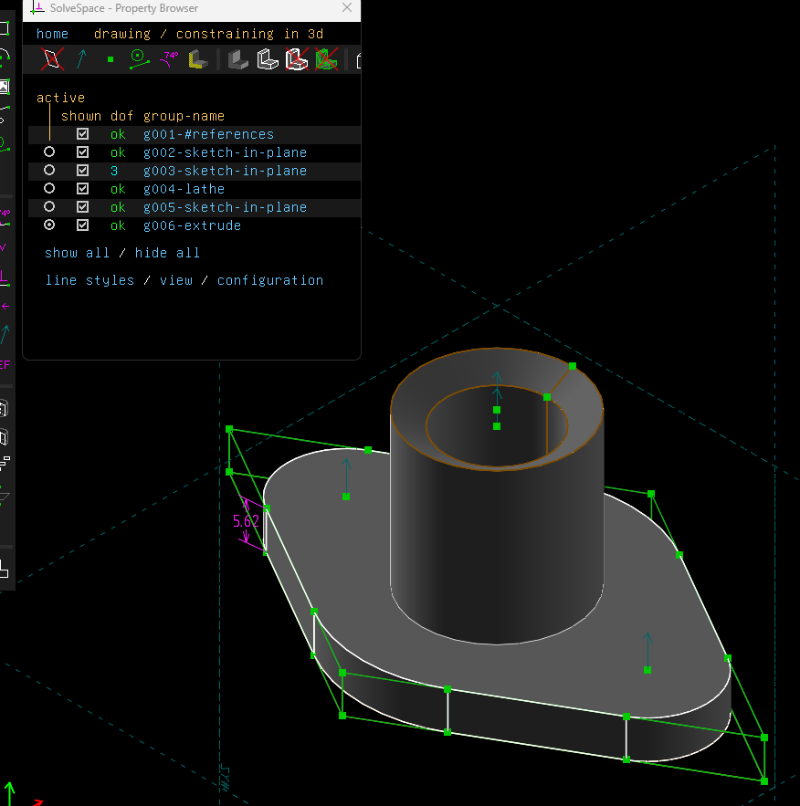
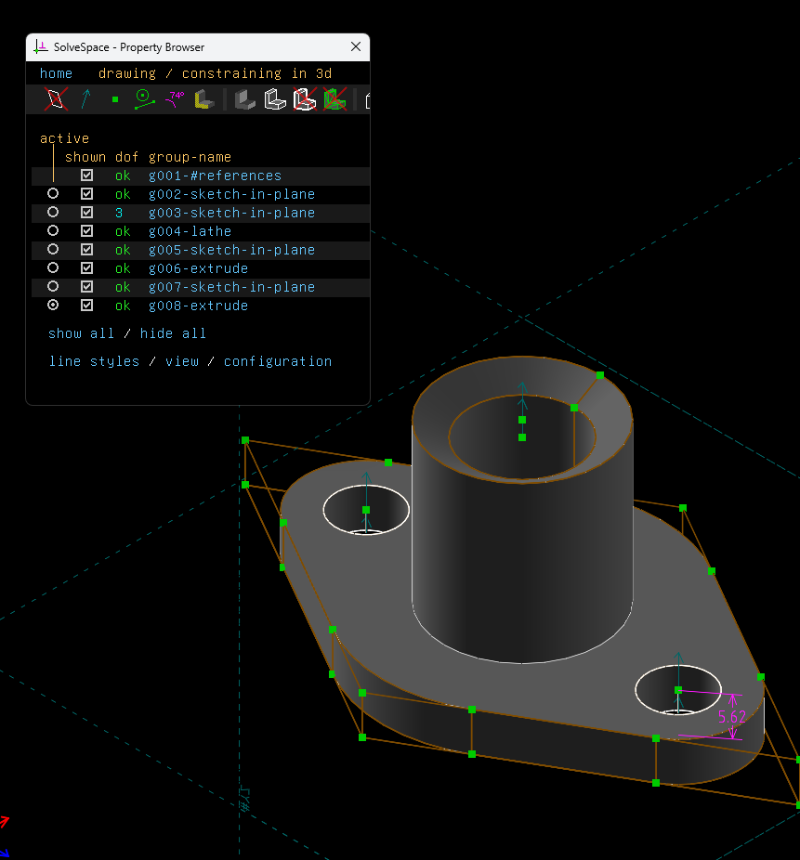
新增第5、6、9零件圖

diff --git a/content/tipuesearch_content.js b/content/tipuesearch_content.js
@@ -1,1 +1,1 @@
-var tipuesearch = {"pages": [{'title': 'About', 'text': '國立虎尾科技大學機械設計工程系 \n National Formosa University \n Department of Mechanical Design Engineering \n cad2024 電腦輔助設計與實習 \n 課程教材: \n Intro_to_Mechatronics.pdf  ( Source ) \n Programming with Python for Engineers \n NX Tutorial \n cd2023_pj3ag4_zmq_football_4.7.7z \n cd2024_2b_g6_steel_ball_platform_nxopen_copsim.7z \n Teams 線上教學: \n 以 "學號@nfu.edu.tw" 登入  https://login.microsoftonline.com/  Office 365 \n Teams 團隊代碼:  j19kw75 \n 個人倉儲:  https://github.com/mdecad2024/hw-41223206 \n 個人網站:  https://mdecad2024.github.io/hw-41223206 \n 其他資訊 \n', 'tags': '', 'url': 'About.html'}, {'title': 'Attendance', 'text': '出席 (10%) - 自行舉證評分 \n 自行利用 Github commits 提交記錄評分. \n', 'tags': '', 'url': 'Attendance.html'}, {'title': 'HW1', 'text': "Homework 1 (10%): \n 利用 Solvespace 與 NX2312 建立  Parts  頁面中的零件 \n 其他 零件模擬練習 \n \n 利用 Solvespace 繪製列表中零件的操作過程與說明影片如下: \n \n # Run static server\nimport static\nfrom gevent.pywsgi import WSGIServer\n\nhttp_server = WSGIServer(('0.0.0.0', 8081), static.app)\nhttp_server.serve_forever() \n 影片標題: 國立虎尾科技大學機械設計工程系電腦輔助設計與實習- 作業一之一 \n 所完成的零件檔案下載 \n 影片標題: 國立虎尾科技大學機械設計工程系電腦輔助設計與實習- 作業一之二 \n 所完成的零件檔案下載 \n ...... \n 利用 NX2312 繪製列表中零件的操作過程與說明影片如下: \n 影片標題: 國立虎尾科技大學機械設計工程系電腦輔助設計與實習- 作業一之三 \n 所完成的零件檔案下載 \n 影片標題: 國立虎尾科技大學機械設計工程系電腦輔助設計與實習- 作業一之四 \n 所完成的零件檔案下載 \n ...... \n HW1 執行心得: \n ...... \n HW1 自評分數: \n 完成上述流程後, 請將 HW1 自評分數輸入 cad2024 自評表單中. \n", 'tags': '', 'url': 'HW1.html'}, {'title': 'HW1_Exam', 'text': '', 'tags': '', 'url': 'HW1_Exam.html'}, {'title': 'w7', 'text': '/downloads/影片1.mp4 \n 從 零件模擬練習 中選出零件, 隨堂進行考試. \n 零件考試題目以 Solvespace 繪圖操作過程影片如下: \n 請將操作影片嵌入 ...... \n 所完成的零件檔案下載 \n 零件考試題目以 NX2312 繪圖操作過程影片如下: \n 請將操作影片嵌入 ...... \n 所完成的零件檔案下載 \n', 'tags': '', 'url': 'w7.html'}, {'title': 'HW2', 'text': 'Homework 2 (10%): \n 利用 Solvespace 與 NX 建立  Balance on Wheels  組立件 \n \n 利用 Solvespace 繪製  Balance on Wheels  組立件的操作過程與說明影片如下: \n \n \n 影片標題: 國立虎尾科技大學機械設計工程系電腦輔助設計與實習- 作業二之一 \n 所完成的零組件檔案下載 \n \n \n STL: https://mdecad2024.github.io/hw-41223206/cmsimde/static/viewstl.html?src=https://s104.cycu.org/~41223206/3.untitled.stl \n \n \n \n \n \n \n \n 利用 NX2312 繪製  Balance on Wheels  組立件的操作過程與說明影片如下: \n 影片標題: 國立虎尾科技大學機械設計工程系電腦輔助設計與實習- 作業二之二 \n 所完成的零件檔案下載 \n HW2 執行心得: \n ...... \n HW2 自評分數: \n 完成上述流程後, 請將 HW2 自評分數輸入 cad2024 自評表單中. \n', 'tags': '', 'url': 'HW2.html'}, {'title': 'HW2_Exam', 'text': '與 HW2 內容相近的組立件題目, 隨堂進行考試. \n 零件與組立件考試題目以 Solvespace 繪圖操作過程影片如下: \n 請將操作影片嵌入 ...... \n 所完成的零件與組立件檔案下載 \n 零件與組立件考試題目以 NX 繪圖操作過程影片如下: \n 請將操作影片嵌入 ...... \n 所完成的零件與組立件檔案下載 \n', 'tags': '', 'url': 'HW2_Exam.html'}, {'title': 'HW3', 'text': 'Homework 3 (20%): \n 建立  Balance on Wheels  控制系統設計模擬場景 \n https://github.com/mdecycu/Balance_On_Wheels \n \n \n Balance_on_wheels_nx2312.7z \n Balance_on_Wheel_scene.7z \n', 'tags': '', 'url': 'HW3.html'}, {'title': 'HW3_Exam', 'text': '與 HW3 內容相近的模擬場景題目, 隨堂進行考試. \n 建立模擬場景操作過程影片如下: \n 請將操作影片嵌入 ...... \n 所完成的模擬場景與控制程式檔案下載 \n \n 利用 CoppeliaSim 建立  Balance on Wheels  控制系統設計模擬場景的操作過程與說明影片如下: \n 影片標題: 國立虎尾科技大學機械設計工程系電腦輔助設計與實習- 作業三 \n 請將操作影片嵌入 ...... \n 所完成的場景與控制程式檔案下載 \n HW3 執行心得: \n ...... \n HW3 自評分數: \n 完成上述流程後, 請將 HW3 自評分數輸入 cad2024 自評表單中. \n', 'tags': '', 'url': 'HW3_Exam.html'}, {'title': 'HW4', 'text': 'Homework 4 (20%): \n 建立  Dingo 機器狗 控制系統設計模擬場景 \n https://github.com/mdecycu/DingoQuadruped \n DINGO_QUADRUPED_CAD.7z \n \n \n 利用 CoppeliaSim 建立  Dingo 機器狗 控制系統設計模擬場景的操作過程與說明影片如下: \n 影片標題: 國立虎尾科技大學機械設計工程系電腦輔助設計與實習- 作業四 \n 所完成的場景與控制程式檔案下載 \n HW4 執行心得: \n .... \n HW4 自評分數: \n 完成上述流程後, 請將 HW4 自評分數輸入 cad2024 自評表單中. \n', 'tags': '', 'url': 'HW4.html'}, {'title': 'HW4_Exam', 'text': '與 HW4 內容相近的模擬場景題目, 隨堂進行考試. \n 建立模擬場景操作過程影片如下: \n 請將操作影片嵌入 ...... \n 所完成的模擬場景與控制程式檔案下載 \n', 'tags': '', 'url': 'HW4_Exam.html'}, {'title': 'Final Report', 'text': '期末口頭與書面專題報告 (30%) \n 期末口頭專題報告影片: \n ...... \n 期末書面專題報告檔案 (pdf): \n ...... \n 電腦輔助設計與實習課程總結心得: \n ...... \n 期末報告自評成績: \n 完成上述流程後, 請將 Final Report 自評分數輸入 cad2024 自評表單中.', 'tags': '', 'url': 'Final Report.html'}]};
+var tipuesearch = {"pages": [{'title': 'About', 'text': '國立虎尾科技大學機械設計工程系 \n National Formosa University \n Department of Mechanical Design Engineering \n cad2024 電腦輔助設計與實習 \n 課程教材: \n Intro_to_Mechatronics.pdf  ( Source ) \n Programming with Python for Engineers \n NX Tutorial \n cd2023_pj3ag4_zmq_football_4.7.7z \n cd2024_2b_g6_steel_ball_platform_nxopen_copsim.7z \n Teams 線上教學: \n 以 "學號@nfu.edu.tw" 登入  https://login.microsoftonline.com/  Office 365 \n Teams 團隊代碼:  j19kw75 \n 個人倉儲:  https://github.com/mdecad2024/hw-41223206 \n 個人網站:  https://mdecad2024.github.io/hw-41223206 \n 其他資訊 \n', 'tags': '', 'url': 'About.html'}, {'title': 'Attendance', 'text': '出席 (10%) - 自行舉證評分 \n 自行利用 Github commits 提交記錄評分. \n', 'tags': '', 'url': 'Attendance.html'}, {'title': 'HW1', 'text': "Homework 1 (10%): \n 利用 Solvespace 與 NX2312 建立  Parts  頁面中的零件 \n 其他 零件模擬練習 \n \n 利用 Solvespace 繪製列表中零件的操作過程與說明影片如下: \n \n # Run static server\nimport static\nfrom gevent.pywsgi import WSGIServer\n\nhttp_server = WSGIServer(('0.0.0.0', 8081), static.app)\nhttp_server.serve_forever() \n 影片標題: 國立虎尾科技大學機械設計工程系電腦輔助設計與實習- 作業一之一 \n 所完成的零件檔案下載 \n 影片標題: 國立虎尾科技大學機械設計工程系電腦輔助設計與實習- 作業一之二 \n 所完成的零件檔案下載 \n ...... \n 利用 NX2312 繪製列表中零件的操作過程與說明影片如下: \n 影片標題: 國立虎尾科技大學機械設計工程系電腦輔助設計與實習- 作業一之三 \n 所完成的零件檔案下載 \n 影片標題: 國立虎尾科技大學機械設計工程系電腦輔助設計與實習- 作業一之四 \n 所完成的零件檔案下載 \n ...... \n HW1 執行心得: \n ...... \n HW1 自評分數: \n 完成上述流程後, 請將 HW1 自評分數輸入 cad2024 自評表單中. \n", 'tags': '', 'url': 'HW1.html'}, {'title': 'HW1_Exam', 'text': '', 'tags': '', 'url': 'HW1_Exam.html'}, {'title': 'w7', 'text': '/downloads/影片1.mp4 \n 從 零件模擬練習 中選出零件, 隨堂進行考試. \n 零件考試題目以 Solvespace 繪圖操作過程影片如下: \n 請將操作影片嵌入 ...... \n 所完成的零件檔案下載 \n 零件考試題目以 NX2312 繪圖操作過程影片如下: \n 請將操作影片嵌入 ...... \n 所完成的零件檔案下載 \n', 'tags': '', 'url': 'w7.html'}, {'title': 'HW2', 'text': 'Homework 2 (10%): \n 利用 Solvespace 與 NX 建立  Balance on Wheels  組立件 \n \n 利用 Solvespace 繪製  Balance on Wheels  組立件的操作過程與說明影片如下: \n \n \n 影片標題: 國立虎尾科技大學機械設計工程系電腦輔助設計與實習- 作業二之一 \n 所完成的零組件檔案下載 \n \n \n STL: https://mdecad2024.github.io/hw-41223206/cmsimde/static/viewstl.html?src=https://s104.cycu.org/~41223206/3.untitled.stl \n \n \n \n \n \n \n \n \n \n \n 利用 NX2312 繪製  Balance on Wheels  組立件的操作過程與說明影片如下: \n 影片標題: 國立虎尾科技大學機械設計工程系電腦輔助設計與實習- 作業二之二 \n 所完成的零件檔案下載 \n HW2 執行心得: \n ...... \n HW2 自評分數: \n 完成上述流程後, 請將 HW2 自評分數輸入 cad2024 自評表單中.', 'tags': '', 'url': 'HW2.html'}, {'title': 'HW2_Exam', 'text': '與 HW2 內容相近的組立件題目, 隨堂進行考試. \n 零件與組立件考試題目以 Solvespace 繪圖操作過程影片如下: \n 請將操作影片嵌入 ...... \n 所完成的零件與組立件檔案下載 \n 零件與組立件考試題目以 NX 繪圖操作過程影片如下: \n 請將操作影片嵌入 ...... \n 所完成的零件與組立件檔案下載 \n', 'tags': '', 'url': 'HW2_Exam.html'}, {'title': 'HW3', 'text': 'Homework 3 (20%): \n 建立  Balance on Wheels  控制系統設計模擬場景 \n https://github.com/mdecycu/Balance_On_Wheels \n \n \n Balance_on_wheels_nx2312.7z \n Balance_on_Wheel_scene.7z \n', 'tags': '', 'url': 'HW3.html'}, {'title': 'HW3_Exam', 'text': '與 HW3 內容相近的模擬場景題目, 隨堂進行考試. \n 建立模擬場景操作過程影片如下: \n 請將操作影片嵌入 ...... \n 所完成的模擬場景與控制程式檔案下載 \n \n 利用 CoppeliaSim 建立  Balance on Wheels  控制系統設計模擬場景的操作過程與說明影片如下: \n 影片標題: 國立虎尾科技大學機械設計工程系電腦輔助設計與實習- 作業三 \n 請將操作影片嵌入 ...... \n 所完成的場景與控制程式檔案下載 \n HW3 執行心得: \n ...... \n HW3 自評分數: \n 完成上述流程後, 請將 HW3 自評分數輸入 cad2024 自評表單中. \n', 'tags': '', 'url': 'HW3_Exam.html'}, {'title': 'HW4', 'text': 'Homework 4 (20%): \n 建立  Dingo 機器狗 控制系統設計模擬場景 \n https://github.com/mdecycu/DingoQuadruped \n DINGO_QUADRUPED_CAD.7z \n \n \n 利用 CoppeliaSim 建立  Dingo 機器狗 控制系統設計模擬場景的操作過程與說明影片如下: \n 影片標題: 國立虎尾科技大學機械設計工程系電腦輔助設計與實習- 作業四 \n 所完成的場景與控制程式檔案下載 \n HW4 執行心得: \n .... \n HW4 自評分數: \n 完成上述流程後, 請將 HW4 自評分數輸入 cad2024 自評表單中. \n', 'tags': '', 'url': 'HW4.html'}, {'title': 'HW4_Exam', 'text': '與 HW4 內容相近的模擬場景題目, 隨堂進行考試. \n 建立模擬場景操作過程影片如下: \n 請將操作影片嵌入 ...... \n 所完成的模擬場景與控制程式檔案下載 \n', 'tags': '', 'url': 'HW4_Exam.html'}, {'title': 'Final Report', 'text': '期末口頭與書面專題報告 (30%) \n 期末口頭專題報告影片: \n ...... \n 期末書面專題報告檔案 (pdf): \n ...... \n 電腦輔助設計與實習課程總結心得: \n ...... \n 期末報告自評成績: \n 完成上述流程後, 請將 Final Report 自評分數輸入 cad2024 自評表單中.', 'tags': '', 'url': 'Final Report.html'}]};

diff --git a/content/HW2.html b/content/HW2.html
@@ -154,10 +154,13 @@ img.add_border {
 <p style="padding-left: 30px;"><img alt="" height="319" src="./../images/3.png" width="400"/></p>
 <p style="padding-left: 30px;">STL:<a href="https://mdecad2024.github.io/hw-41223206/cmsimde/static/viewstl.html?src=https://s104.cycu.org/~41223206/3.untitled.stl">https://mdecad2024.github.io/hw-41223206/cmsimde/static/viewstl.html?src=https://s104.cycu.org/~41223206/3.untitled.stl</a></p>
 <p style="padding-left: 30px;"><img alt="" height="421" src="./../images/4.png" width="400"/></p>
+<p style="padding-left: 30px;"><img alt="" height="427" src="./../images/5.png" width="400"/></p>
+<p style="padding-left: 30px;"><img alt="" height="425" src="./../images/6.png" width="400"/></p>
 <p style="padding-left: 30px;"><img alt="" height="411" src="./../images/7.png" width="400"/></p>
 <p style="padding-left: 30px;"><img alt="" height="395" src="./../images/8.png" width="400"/></p>
-<p style="padding-left: 30px;"><img alt="" height="403" src="./../images/9.png" width="400"/></p>
+<p style="padding-left: 30px;"></p>
 <p style="padding-left: 30px;"><img alt="" height="420" src="./../images/10.png" width="400"/></p>
+<p style="padding-left: 30px;"><img alt="" height="430" src="./../images/9.png" width="400"/></p>
 <p style="padding-left: 30px;"><img alt="" height="445" src="./../images/11.png" width="400"/></p>
 <p style="padding-left: 30px;"><img alt="" height="417" src="./../images/12.png" width="400"/></p>
 <p>利用 NX2312 繪製 <a href="https://mde.tw/cad2024/content/BonW.html">Balance on Wheels</a> 組立件的操作過程與說明影片如下:</p>
@@ -166,8 +169,7 @@ img.add_border {
 <p>HW2 執行心得:</p>
 <p style="padding-left: 30px;">......</p>
 <p>HW2 自評分數:</p>
-<p style="padding-left: 30px;">完成上述流程後, 請將 HW2 自評分數輸入 cad2024 自評表單中.</p>
-<br />w7 << <a href='w7.html'>Previous</a> <a href='HW2_Exam.html'>Next</a> >> HW2_Exam</div>
+<p style="padding-left: 30px;">完成上述流程後, 請將 HW2 自評分數輸入 cad2024 自評表單中.</p><br />w7 << <a href='w7.html'>Previous</a> <a href='HW2_Exam.html'>Next</a> >> HW2_Exam</div>
         
     <!-- footer -->
       <div class="container">

diff --git a/config/content.htm b/config/content.htm
@@ -69,10 +69,13 @@ http_server.serve_forever()</pre>
 <p style="padding-left: 30px;"><img alt="" height="319" src="/images/3.png" width="400"/></p>
 <p style="padding-left: 30px;">STL:<a href="https://mdecad2024.github.io/hw-41223206/cmsimde/static/viewstl.html?src=https://s104.cycu.org/~41223206/3.untitled.stl">https://mdecad2024.github.io/hw-41223206/cmsimde/static/viewstl.html?src=https://s104.cycu.org/~41223206/3.untitled.stl</a></p>
 <p style="padding-left: 30px;"><img alt="" height="421" src="/images/4.png" width="400"/></p>
+<p style="padding-left: 30px;"><img alt="" height="427" src="/images/5.png" width="400"/></p>
+<p style="padding-left: 30px;"><img alt="" height="425" src="/images/6.png" width="400"/></p>
 <p style="padding-left: 30px;"><img alt="" height="411" src="/images/7.png" width="400"/></p>
 <p style="padding-left: 30px;"><img alt="" height="395" src="/images/8.png" width="400"/></p>
-<p style="padding-left: 30px;"><img alt="" height="403" src="/images/9.png" width="400"/></p>
+<p style="padding-left: 30px;"></p>
 <p style="padding-left: 30px;"><img alt="" height="420" src="/images/10.png" width="400"/></p>
+<p style="padding-left: 30px;"><img alt="" height="430" src="/images/9.png" width="400"/></p>
 <p style="padding-left: 30px;"><img alt="" height="445" src="/images/11.png" width="400"/></p>
 <p style="padding-left: 30px;"><img alt="" height="417" src="/images/12.png" width="400"/></p>
 <p>利用 NX2312 繪製 <a href="https://mde.tw/cad2024/content/BonW.html">Balance on Wheels</a> 組立件的操作過程與說明影片如下:</p>
@@ -81,8 +84,7 @@ http_server.serve_forever()</pre>
 <p>HW2 執行心得:</p>
 <p style="padding-left: 30px;">......</p>
 <p>HW2 自評分數:</p>
-<p style="padding-left: 30px;">完成上述流程後, 請將 HW2 自評分數輸入 cad2024 自評表單中.</p>
-<h2>HW2_Exam</h2>
+<p style="padding-left: 30px;">完成上述流程後, 請將 HW2 自評分數輸入 cad2024 自評表單中.</p><h2>HW2_Exam</h2>
 <p>與 HW2 內容相近的組立件題目, 隨堂進行考試.</p>
 <p>零件與組立件考試題目以 Solvespace 繪圖操作過程影片如下:</p>
 <p style="padding-left: 30px;">請將操作影片嵌入 ......</p>

diff --git a/config/content_backup.htm b/config/content_backup.htm
@@ -47,7 +47,7 @@ http_server.serve_forever()</pre>
 <p>HW1 自評分數:</p>
 <p style="padding-left: 30px;">完成上述流程後, 請將 HW1 自評分數輸入 cad2024 自評表單中.</p>
 <h2>HW1_Exam</h2>
-<p><strong>h7</strong></p>
+<h3>w7</h3>
 <p><strong><a href="/downloads/影片1.mp4">/downloads/影片1.mp4</a></strong></p>
 <p>從<a href="http://229.cycu.org/part_modeling_projects.pdf">零件模擬練習</a>中選出零件, 隨堂進行考試.</p>
 <p>零件考試題目以 Solvespace 繪圖操作過程影片如下:</p>
@@ -55,7 +55,8 @@ http_server.serve_forever()</pre>
 <p style="padding-left: 30px;">所完成的零件檔案下載</p>
 <p>零件考試題目以 NX2312 繪圖操作過程影片如下:</p>
 <p style="padding-left: 30px;">請將操作影片嵌入 ......</p>
-<p style="padding-left: 30px;">所完成的零件檔案下載</p><h1>HW2</h1>
+<p style="padding-left: 30px;">所完成的零件檔案下載</p>
+<h1>HW2</h1>
 <p>Homework 2 (10%):</p>
 <p style="padding-left: 30px;">利用 Solvespace 與 NX 建立 <a href="https://mde.tw/cad2024/content/BonW.html">Balance on Wheels</a> 組立件</p>
 <hr/>
@@ -80,7 +81,8 @@ http_server.serve_forever()</pre>
 <p>HW2 執行心得:</p>
 <p style="padding-left: 30px;">......</p>
 <p>HW2 自評分數:</p>
-<p style="padding-left: 30px;">完成上述流程後, 請將 HW2 自評分數輸入 cad2024 自評表單中.</p><h2>HW2_Exam</h2>
+<p style="padding-left: 30px;">完成上述流程後, 請將 HW2 自評分數輸入 cad2024 自評表單中.</p>
+<h2>HW2_Exam</h2>
 <p>與 HW2 內容相近的組立件題目, 隨堂進行考試.</p>
 <p>零件與組立件考試題目以 Solvespace 繪圖操作過程影片如下:</p>
 <p style="padding-left: 30px;">請將操作影片嵌入 ......</p>
